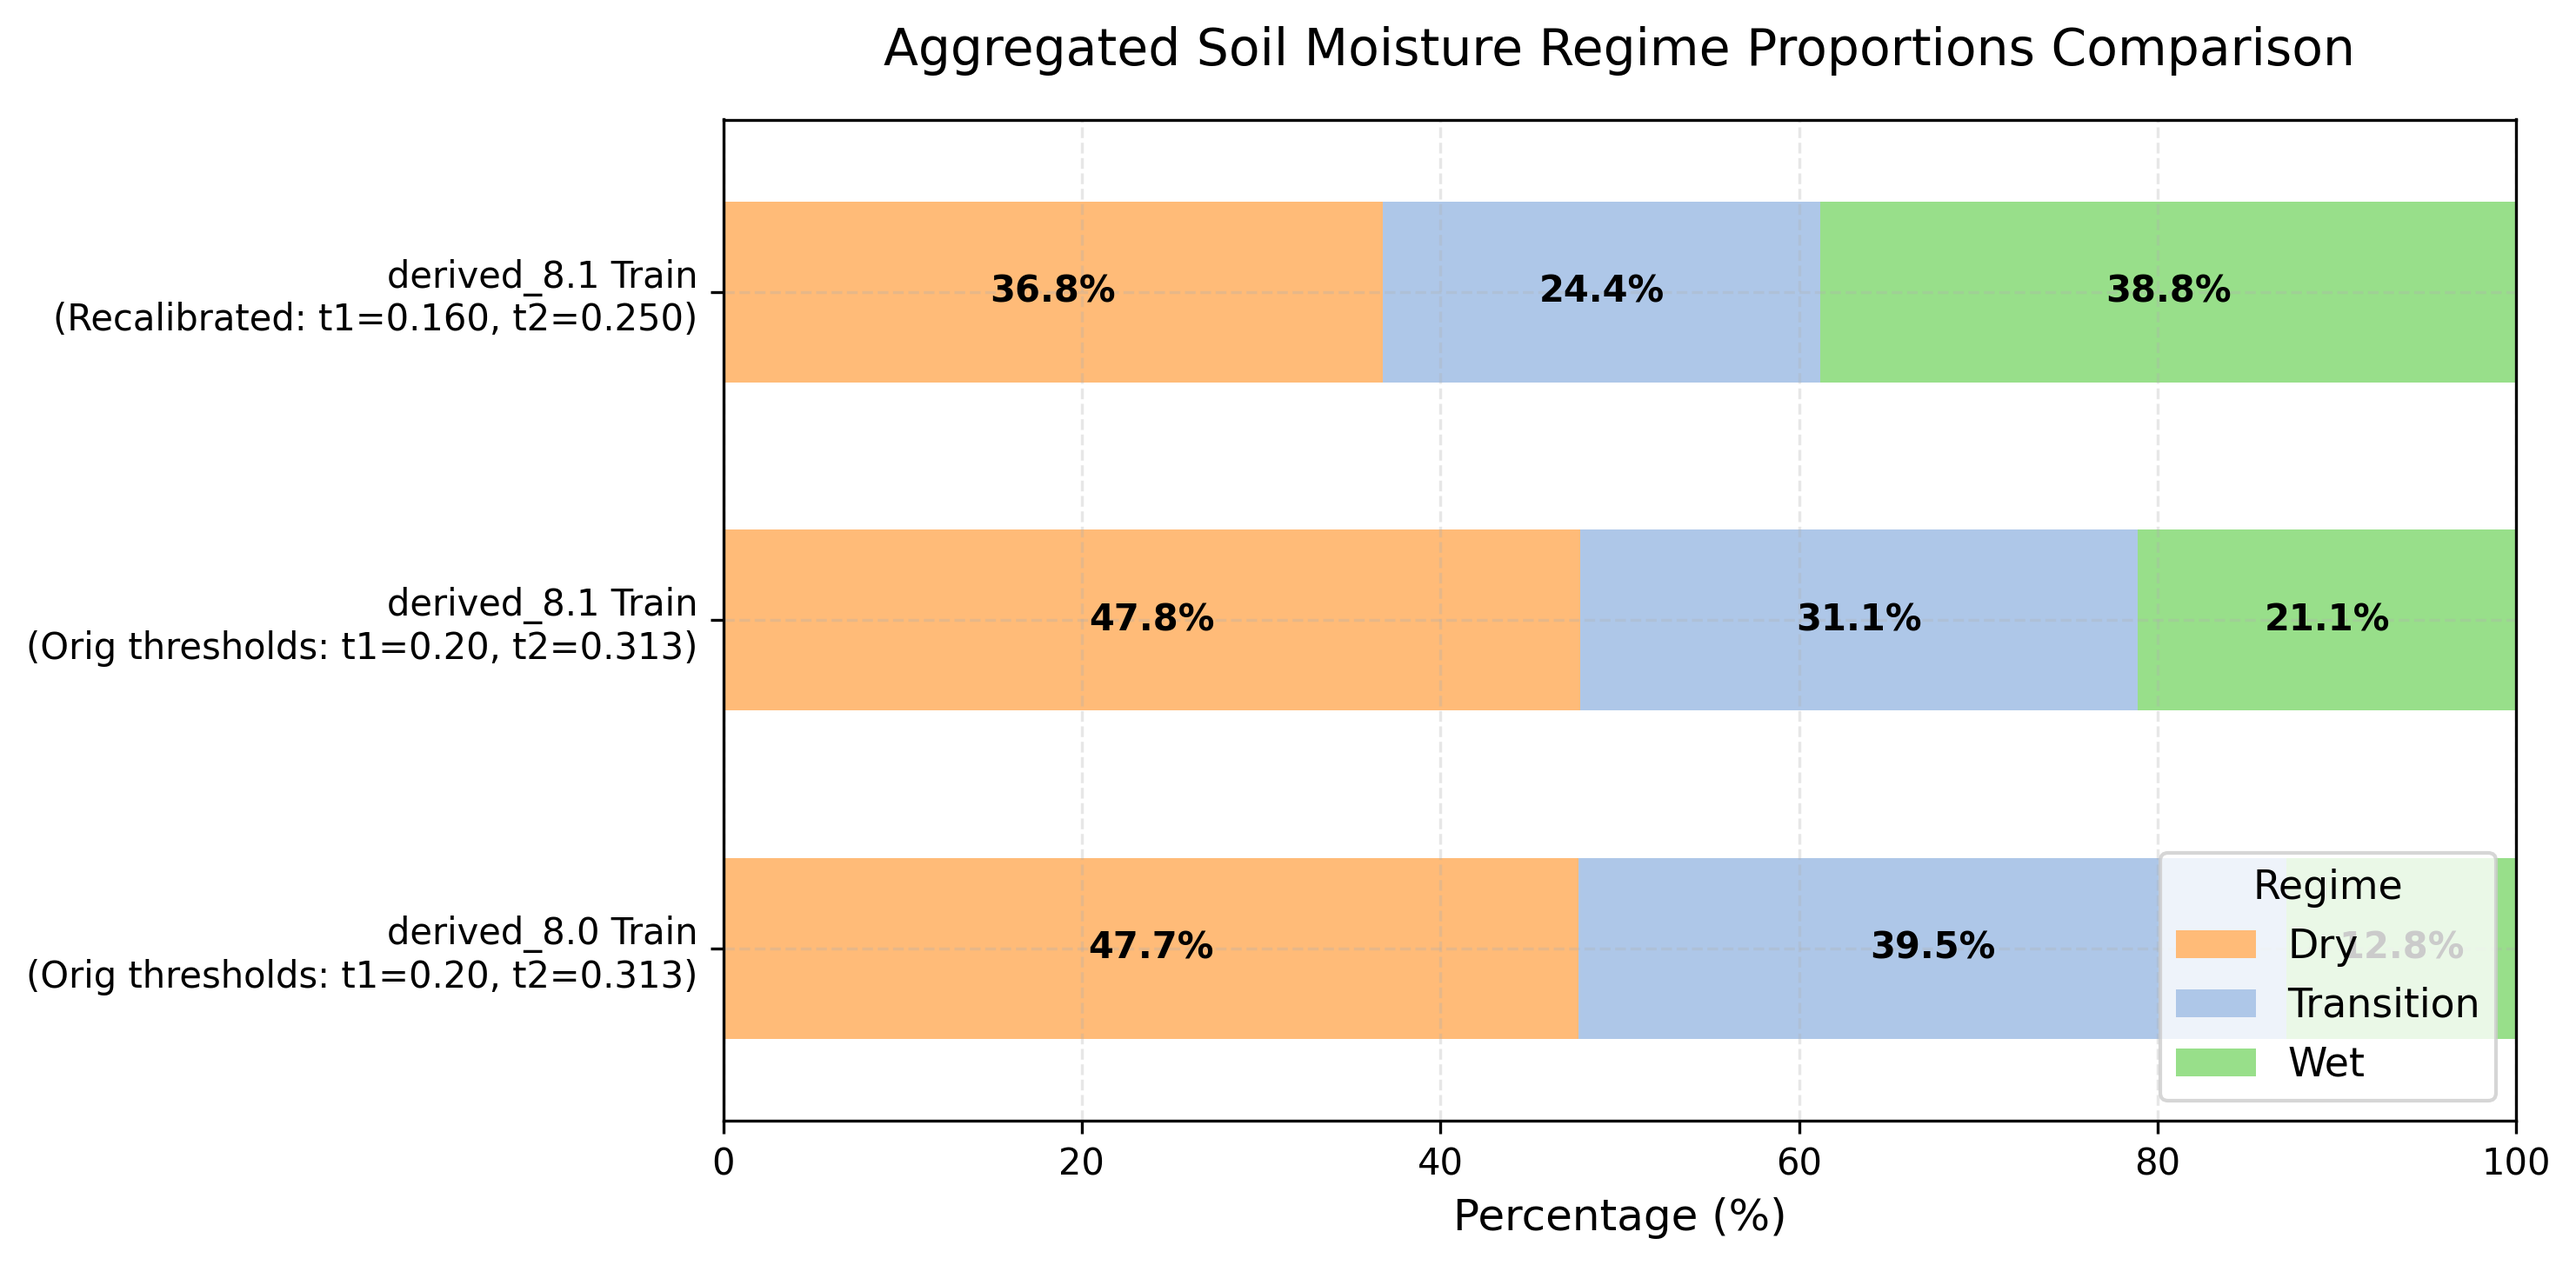
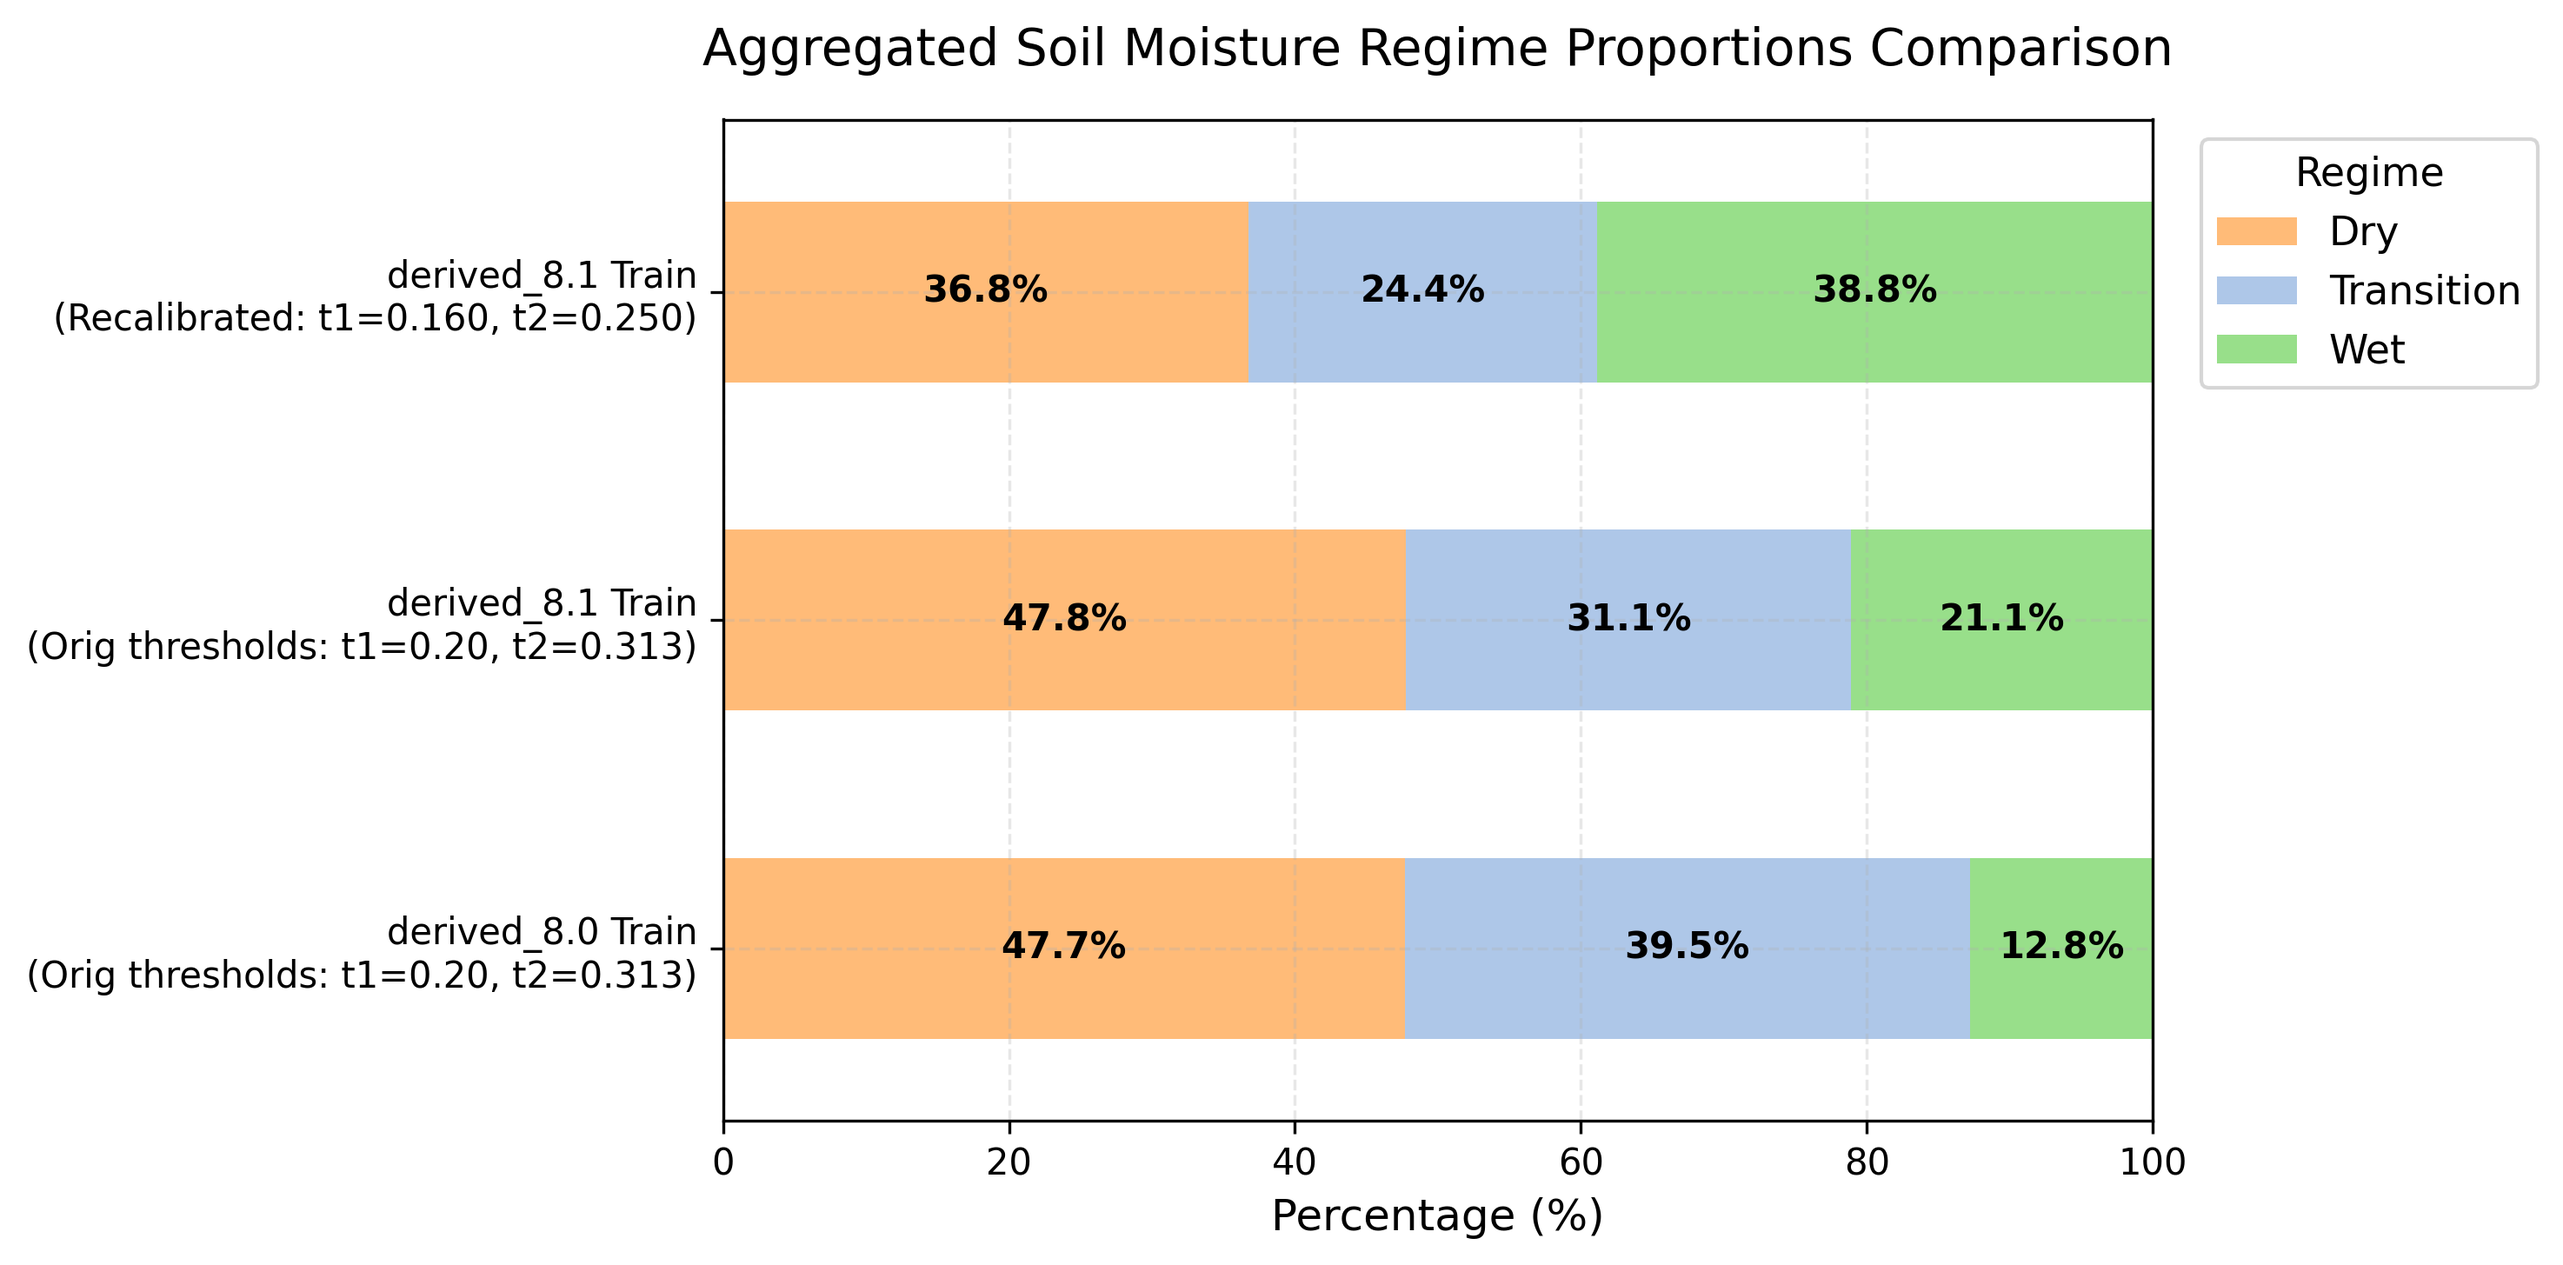
Fix plots

diff --git a/notebooks/experiment/derived_8.1-data-exploration/analyze_regimes.py b/notebooks/experiment/derived_8.1-data-exploration/analyze_regimes.py
@@ -106,8 +106,8 @@ def main():
     
     # Analyze global splits under different thresholds
     print("\n--- GLOBAL REGIME DISTRIBUTIONS ---")
-    analyze_regime_distribution(d80_train, t1_80_orig, t2_80_orig, "derived_8.0 Train with Original thresholds")
-    analyze_regime_distribution(d81_train, t1_80_orig, t2_80_orig, "derived_8.1 Train with Original thresholds")
+    d80_train_reg = analyze_regime_distribution(d80_train, t1_80_orig, t2_80_orig, "derived_8.0 Train with Original thresholds")
+    d81_train_reg_orig = analyze_regime_distribution(d81_train, t1_80_orig, t2_80_orig, "derived_8.1 Train with Original thresholds")
     
     print("\n--- derived_8.1 splits with recalibrated thresholds (t1={:.4f}, t2={:.4f}) ---".format(t1_81_cal, t2_81_cal))
     df81_train_reg = analyze_regime_distribution(d81_train, t1_81_cal, t2_81_cal, "derived_8.1 Train")
@@ -206,7 +206,7 @@ def main():
                             fontweight='bold', fontsize=9)
             accum += val
             
-    ax.set_title("derived_8.1: Soil Moisture Regime Counts & Percentages by Station", pad=15)
+    ax.set_title(f"derived_8.1: Soil Moisture Regime Counts & Percentages by Station (t1={t1_81_cal:.3f}, t2={t2_81_cal:.3f})", pad=15)
     ax.set_xlabel("Observations (Days)")
     ax.set_ylabel("Station ID")
     ax.legend(title="Regime", frameon=True, facecolor="white")
@@ -245,13 +245,17 @@ def main():
 
     # Figure 4: Aggregated Regime Proportions Comparison (Dry + Transition + Wet)
     categories = [
-        "derived_8.0 Train\n(Orig thresholds: t1=0.20, t2=0.313)",
-        "derived_8.1 Train\n(Orig thresholds: t1=0.20, t2=0.313)",
-        "derived_8.1 Train\n(Recalibrated: t1=0.160, t2=0.250)"
+        f"derived_8.0 Train\n(Orig thresholds: t1={t1_80_orig:.2f}, t2={t2_80_orig:.3f})",
+        f"derived_8.1 Train\n(Orig thresholds: t1={t1_80_orig:.2f}, t2={t2_80_orig:.3f})",
+        f"derived_8.1 Train\n(Recalibrated: t1={t1_81_cal:.3f}, t2={t2_81_cal:.3f})"
     ]
-    dry_pcts = [47.7, 47.8, 36.8]
-    trans_pcts = [39.5, 31.1, 24.4]
-    wet_pcts = [12.8, 21.1, 38.8]
+    pcts_80_orig = d80_train_reg["regime"].value_counts(normalize=True).reindex(["Dry", "Transition", "Wet"], fill_value=0) * 100
+    pcts_81_orig = d81_train_reg_orig["regime"].value_counts(normalize=True).reindex(["Dry", "Transition", "Wet"], fill_value=0) * 100
+    pcts_81_cal = df81_train_reg["regime"].value_counts(normalize=True).reindex(["Dry", "Transition", "Wet"], fill_value=0) * 100
+
+    dry_pcts = [pcts_80_orig["Dry"], pcts_81_orig["Dry"], pcts_81_cal["Dry"]]
+    trans_pcts = [pcts_80_orig["Transition"], pcts_81_orig["Transition"], pcts_81_cal["Transition"]]
+    wet_pcts = [pcts_80_orig["Wet"], pcts_81_orig["Wet"], pcts_81_cal["Wet"]]
 
     plot_df = pd.DataFrame({
         'Dry': dry_pcts,
@@ -276,7 +280,7 @@ def main():
     ax.set_title("Aggregated Soil Moisture Regime Proportions Comparison", pad=15)
     ax.set_xlabel("Percentage (%)")
     ax.set_xlim(0, 100)
-    ax.legend(title="Regime", loc="lower right", frameon=True, facecolor="white")
+    ax.legend(title="Regime", loc="upper left", bbox_to_anchor=(1.02, 1.0), frameon=True, facecolor="white")
     plt.tight_layout()
     plt.savefig(os.path.join(output_dir, "aggregated_regime_comparison.png"))
     plt.close()
